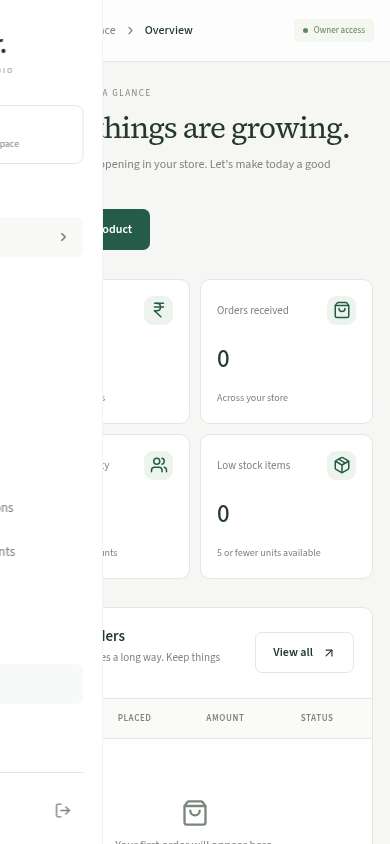
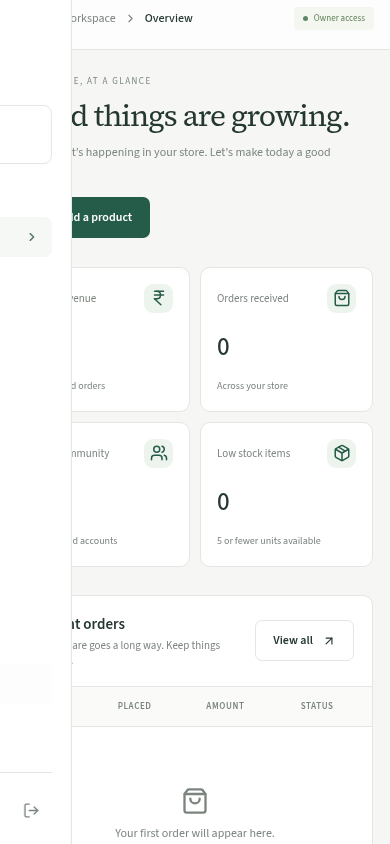
Make product details and campaign destinations easier to manage

diff --git a/artifacts/admin-web/src/components/ResourceManager.tsx b/artifacts/admin-web/src/components/ResourceManager.tsx
@@ -1,3 +1,4 @@
+import { SpecificationFields } from "./SpecificationFields";
 import React, { useEffect, useRef, useState } from "react";
 import {
   Plus,
@@ -48,6 +49,7 @@ export function ResourceManager({
     [saving, setSaving] = useState(false),
     [notice, setNotice] = useState(""),
     [cats, setCats] = useState<any[]>([]),
+    [destinationProducts, setDestinationProducts] = useState<any[]>([]),
     [uploading, setUploading] = useState(false);
   const dialog = useRef<HTMLDivElement>(null),
     opener = useRef<HTMLElement | null>(null);
@@ -64,10 +66,15 @@ export function ResourceManager({
   };
   useEffect(() => {
     void load();
-    if (resource === "products")
+    if (resource === "products" || resource === "banners")
       adminApi.categories
         .list()
         .then(setCats)
+        .catch((e) => setError(e.message));
+    if (resource === "banners")
+      adminApi.products
+        .list()
+        .then(setDestinationProducts)
         .catch((e) => setError(e.message));
   }, [resource]);
   useEffect(() => {
@@ -115,8 +122,7 @@ export function ResourceManager({
     for (const f of fields) {
       if (f.type === "images")
         d[f.key] = (row?.images || []).map((i: any) => i.url).join("\n");
-      if (f.type === "json")
-        d[f.key] = row?.[f.key] ? JSON.stringify(row[f.key], null, 2) : "";
+      if (f.type === "specs") d[f.key] = Object.entries(row?.[f.key] || {});
       if (f.type === "datetime-local" && d[f.key]) {
         const dt = new Date(d[f.key]);
         d[f.key] = new Date(dt.getTime() - dt.getTimezoneOffset() * 60000)
@@ -139,8 +145,19 @@ export function ResourceManager({
             .split("\n")
             .map((s: string) => s.trim())
             .filter(Boolean);
-        else if (f.type === "json") body[f.key] = v ? JSON.parse(v) : {};
-        else if (f.type === "number")
+        else if (f.type === "specs") {
+          const details = (v || [])
+            .map(([k, value]: [string, string]) => [k.trim(), value.trim()])
+            .filter(([k, value]: [string, string]) => k || value);
+          if (details.some(([k, value]: [string, string]) => !k || !value))
+            throw new Error("Each product detail needs a name and a value.");
+          if (
+            new Set(details.map(([k]: [string, string]) => k.toLowerCase()))
+              .size !== details.length
+          )
+            throw new Error("Use a different name for each product detail.");
+          body[f.key] = Object.fromEntries(details);
+        } else if (f.type === "number")
           body[f.key] = v === "" || v === undefined ? null : Number(v);
         else if (f.type === "datetime-local")
           body[f.key] = v ? new Date(v).toISOString() : null;
@@ -164,7 +181,7 @@ export function ResourceManager({
     } catch (e: any) {
       setError(
         e instanceof SyntaxError
-          ? "Specifications must be valid JSON."
+          ? "Could not read product details."
           : e.message,
       );
     } finally {
@@ -474,13 +491,48 @@ export function ResourceManager({
                 {fields.map((f) => (
                   <div
                     key={f.key}
-                    className={`form-group ${["textarea", "images", "json"].includes(f.type || "") ? "wide" : ""}`}
+                    className={`form-group ${["textarea", "images", "specs"].includes(f.type || "") ? "wide" : ""}`}
                   >
                     <label className="form-label" htmlFor={`field-${f.key}`}>
                       {f.label}
                       {f.required && <span> *</span>}
                     </label>
-                    {f.type === "checkbox" ? (
+                    {f.type === "specs" ? (
+                      <SpecificationFields
+                        value={draft[f.key] || []}
+                        onChange={(value) =>
+                          setDraft({ ...draft, [f.key]: value })
+                        }
+                        disabled={saving}
+                      />
+                    ) : f.key === "linkValue" &&
+                      ["category", "product"].includes(draft.linkType) ? (
+                      <select
+                        id={`field-${f.key}`}
+                        className="form-select"
+                        required
+                        value={draft[f.key] || ""}
+                        onChange={(e) =>
+                          setDraft({ ...draft, [f.key]: e.target.value })
+                        }
+                      >
+                        <option value="">Choose a {draft.linkType}…</option>
+                        {(draft.linkType === "category"
+                          ? cats.map((cat) => ({
+                              value: cat.slug,
+                              label: cat.name,
+                            }))
+                          : destinationProducts.map((product) => ({
+                              value: product.id,
+                              label: product.name,
+                            }))
+                        ).map((option) => (
+                          <option value={option.value} key={option.value}>
+                            {option.label}
+                          </option>
+                        ))}
+                      </select>
+                    ) : f.type === "checkbox" ? (
                       <label className="toggle-row">
                         <input
                           id={`field-${f.key}`}
@@ -498,7 +550,11 @@ export function ResourceManager({
                         className="form-select"
                         value={draft[f.key] || ""}
                         onChange={(e) =>
-                          setDraft({ ...draft, [f.key]: e.target.value })
+                          setDraft({
+                            ...draft,
+                            [f.key]: e.target.value,
+                            ...(f.key === "linkType" ? { linkValue: "" } : {}),
+                          })
                         }
                         required={f.required}
                       >
@@ -515,7 +571,7 @@ export function ResourceManager({
                           </option>
                         ))}
                       </select>
-                    ) : ["textarea", "images", "json"].includes(
+                    ) : ["textarea", "images", "specs"].includes(
                         f.type || "",
                       ) ? (
                       <textarea
@@ -524,7 +580,11 @@ export function ResourceManager({
                         rows={f.type === "images" ? 3 : 4}
                         value={draft[f.key] || ""}
                         onChange={(e) =>
-                          setDraft({ ...draft, [f.key]: e.target.value })
+                          setDraft({
+                            ...draft,
+                            [f.key]: e.target.value,
+                            ...(f.key === "linkType" ? { linkValue: "" } : {}),
+                          })
                         }
                         required={f.required}
                       />
@@ -538,7 +598,11 @@ export function ResourceManager({
                         required={f.required}
                         value={draft[f.key] ?? ""}
                         onChange={(e) =>
-                          setDraft({ ...draft, [f.key]: e.target.value })
+                          setDraft({
+                            ...draft,
+                            [f.key]: e.target.value,
+                            ...(f.key === "linkType" ? { linkValue: "" } : {}),
+                          })
                         }
                       />
                     )}{" "}

diff --git a/artifacts/admin-web/src/components/SpecificationFields.tsx b/artifacts/admin-web/src/components/SpecificationFields.tsx
@@ -1,0 +1,65 @@
+import React from "react";
+import { Plus, X } from "lucide-react";
+export function SpecificationFields({
+  value,
+  onChange,
+  disabled,
+}: {
+  value: [string, string][];
+  onChange: (v: [string, string][]) => void;
+  disabled: boolean;
+}) {
+  const update = (i: number, column: number, text: string) =>
+    onChange(
+      value.map((entry, index) =>
+        index === i
+          ? (entry.map((part, c) => (c === column ? text : part)) as [
+              string,
+              string,
+            ])
+          : entry,
+      ),
+    );
+  return (
+    <div role="group" aria-label="Specifications">
+      {value.map(([name, detail], i) => (
+        <div className="specification-fields" key={i}>
+          <input
+            aria-label={`Detail name ${i + 1}`}
+            placeholder="e.g. Material"
+            className="form-input"
+            value={name}
+            disabled={disabled}
+            onChange={(e) => update(i, 0, e.target.value)}
+          />
+          <input
+            aria-label={`Detail value ${i + 1}`}
+            placeholder="e.g. Organic cotton"
+            className="form-input"
+            value={detail}
+            disabled={disabled}
+            onChange={(e) => update(i, 1, e.target.value)}
+          />
+          <button
+            type="button"
+            className="icon-button"
+            aria-label={`Remove detail ${i + 1}`}
+            disabled={disabled}
+            onClick={() => onChange(value.filter((_, n) => n !== i))}
+          >
+            <X size={17} />
+          </button>
+        </div>
+      ))}
+      <button
+        type="button"
+        className="btn btn-secondary"
+        disabled={disabled}
+        onClick={() => onChange([...value, ["", ""]])}
+      >
+        <Plus size={14} />
+        Add a detail
+      </button>
+    </div>
+  );
+}

diff --git a/artifacts/admin-web/src/pages/Catalog.tsx b/artifacts/admin-web/src/pages/Catalog.tsx
@@ -46,8 +46,8 @@ export function Products() {
         {
           key: "specifications",
           label: "Specifications",
-          type: "json",
-          hint: 'JSON, e.g. {"Material":"Cotton","Color":"Olive"}',
+          type: "specs",
+          hint: "Add clear details such as material, size or warranty.",
         },
         active,
         {
@@ -113,7 +113,7 @@ export function Banners() {
         {
           key: "linkValue",
           label: "Destination",
-          hint: "Category slug, product ID or full website URL.",
+          hint: "Choose a product or category, or enter a full website URL.",
         },
         { key: "startsAt", label: "Start date & time", type: "datetime-local" },
         { key: "endsAt", label: "End date & time", type: "datetime-local" },

diff --git a/artifacts/admin-web/src/index.css b/artifacts/admin-web/src/index.css
@@ -1111,3 +1111,23 @@ tbody tr:hover td {
     display: none;
   }
 }
+.specification-fields {
+  display: grid;
+  grid-template-columns: 1fr 1.5fr auto;
+  gap: 8px;
+  margin-bottom: 10px;
+  align-items: center;
+}
+@media (max-width: 480px) {
+  .specification-fields {
+    grid-template-columns: 1fr auto;
+  }
+  .specification-fields > input:nth-child(2) {
+    grid-column: 1;
+    grid-row: 2;
+  }
+  .specification-fields > button {
+    grid-column: 2;
+    grid-row: 1/3;
+  }
+}
